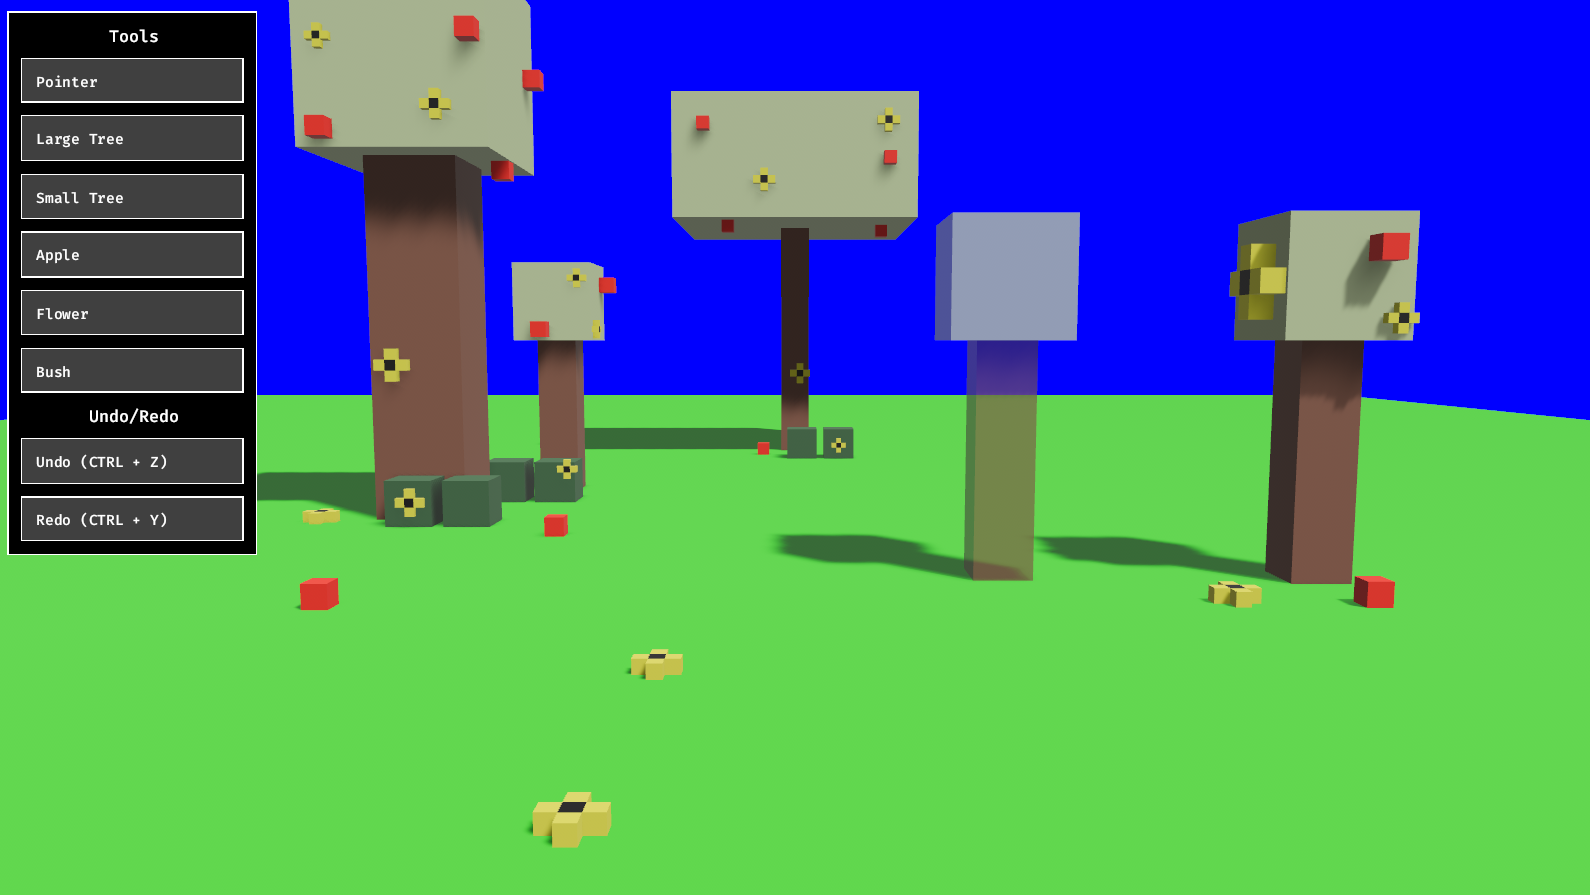
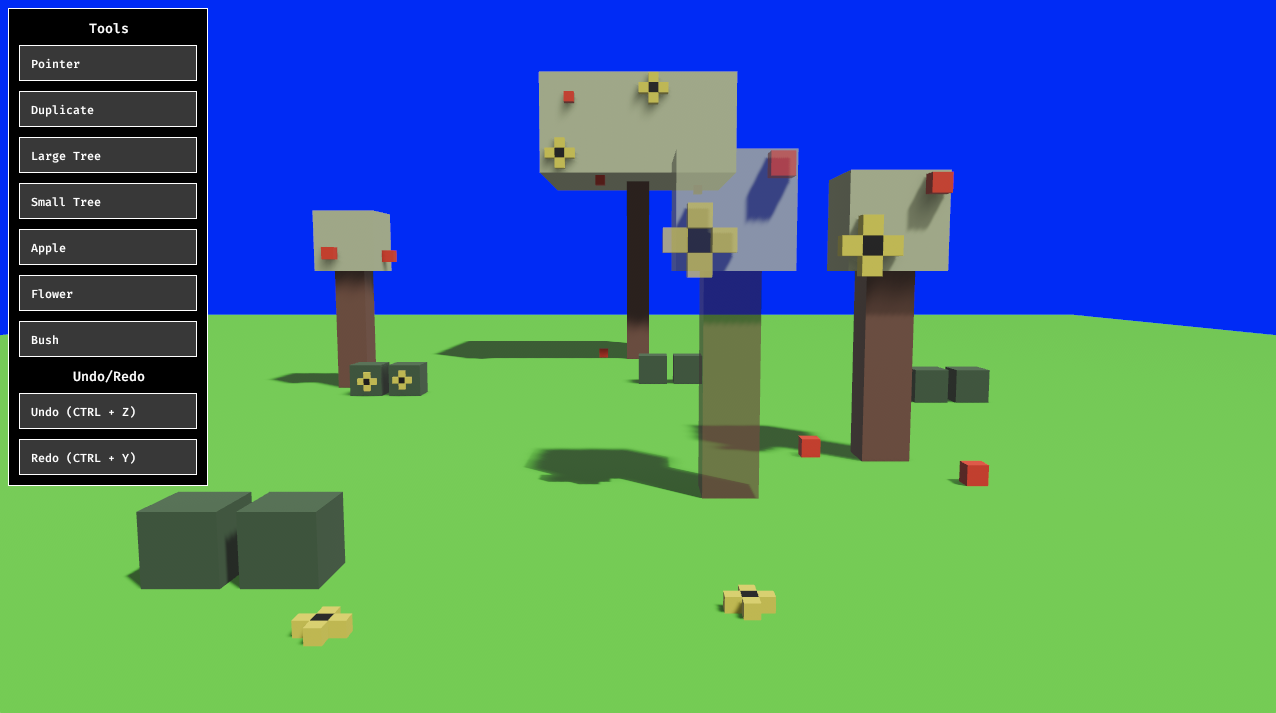
docs: readme

diff --git a/README.md b/README.md
@@ -1,6 +1,6 @@
 # Bevy Garden
 
-An simple `bevy` game where you plant trees in a garden, featuring a simple editor interface, common patterns
+A simple `bevy` game where you plant trees in a garden, featuring a simple editor interface, common patterns
 regarding state-management and multiple examples for interacting with bevy scenes.
 
 ---
@@ -17,14 +17,23 @@ cargo run
 
 This example showcases the following:
 
-* [Prefab tool](crates/prefab_tool/src) to place objects via [asset files](assets/tools).
-* [Pointer tool](crates/pointer_tool/src), a tool that can't be implemented via an asset file.
+* [Prefab tool](crates/prefab_tool/src) to place objects defined in [asset files](assets/tools) (a scene file and
+  config file for each tool).
+* [Duplicate tool](crates/duplicate_tool/src) to capture an object (and its hierarchy) and place it around the scene.
 * Tool library and tool stack.
 * Workspace crate organization ([crates](crates) directory).
 * Saving and loading, including undo/redo via ([crates/save](crates/save/src)).
 * Shared components, state transitions etc. in [crates/game_state](crates/game_state/src).
-* Multiple ways of spawning bevy scenes, including modifying scenes before spawning, spawning without using `DynamicSceneBundle`, and more. See [bevy_scene_utils](crates/bevy_scene_utils/src) and [prefab_tool](crates/prefab_tool/src/commands.rs).
-* Treat objects made up of multiple entities as a single object. See [crates/bush](crates/bush/src), and see how the `FamilyChild` and `ExternalRelations` components are used throughout the code.
+* Treat objects made up of multiple entities as a single object. See [crates/bush](crates/bush/src), and see how the
+  `FamilyChild` and `ExternalRelations` components are used throughout the code.
+* Multiple examples working with `bevy` scenes:
+  * Modifying scenes before spawning (centering, adding components etc.)
+  * Capturing objects to scenes
+  * Dealing with `Parent`/`Children` hierarchies in scenes
+  * Spawning scenes directly into the world without using `DynamicSceneBundle`
+  * Saving only the types you want
+  * See [bevy_scene_utils](crates/bevy_scene_utils/src), [save](crates/save/src),
+    [duplicate_tool](crates/duplicate_tool/src) and [prefab_tool](crates/prefab_tool/src/commands.rs).
 
 ## Third-Party Bevy Crates
 
@@ -40,18 +49,18 @@ It's relatively easy to add a new object type. Here's a roughly what to do:
 
 1. Add a crate for this object
    - E.g. duplicate the `crates/tree` crate
-   - Add to [Cargo.toml](Cargo.toml)
+   - Use to [Cargo.toml](Cargo.toml)
    - Add plugin in [src/main.rs](src/main.rs)
 2. Create tool asset files
    - E.g. duplicate `assets/tools/tree_large`
    - Modify `config.tool.ron` and `prefab.scn.ron` files to reference the new object
-   - Add tool to asset loader in [src/game/tool_loader.rs](src/game/tool_loader.rs).
+   - Add the assets to the [tool asset loader](src/game/tool_loader.rs).
 3. `cargo run` and it should work!
 
 ## Credits
 
 - [bevy_save](https://github.com/hankjordan/bevy_save) - I copied the idea of the `SaveableRegistry` and rollbacks
-  used in `crates/save` from this project.
+  from this project (see [save crate](crates/save/src)).
 
 ## License
 
